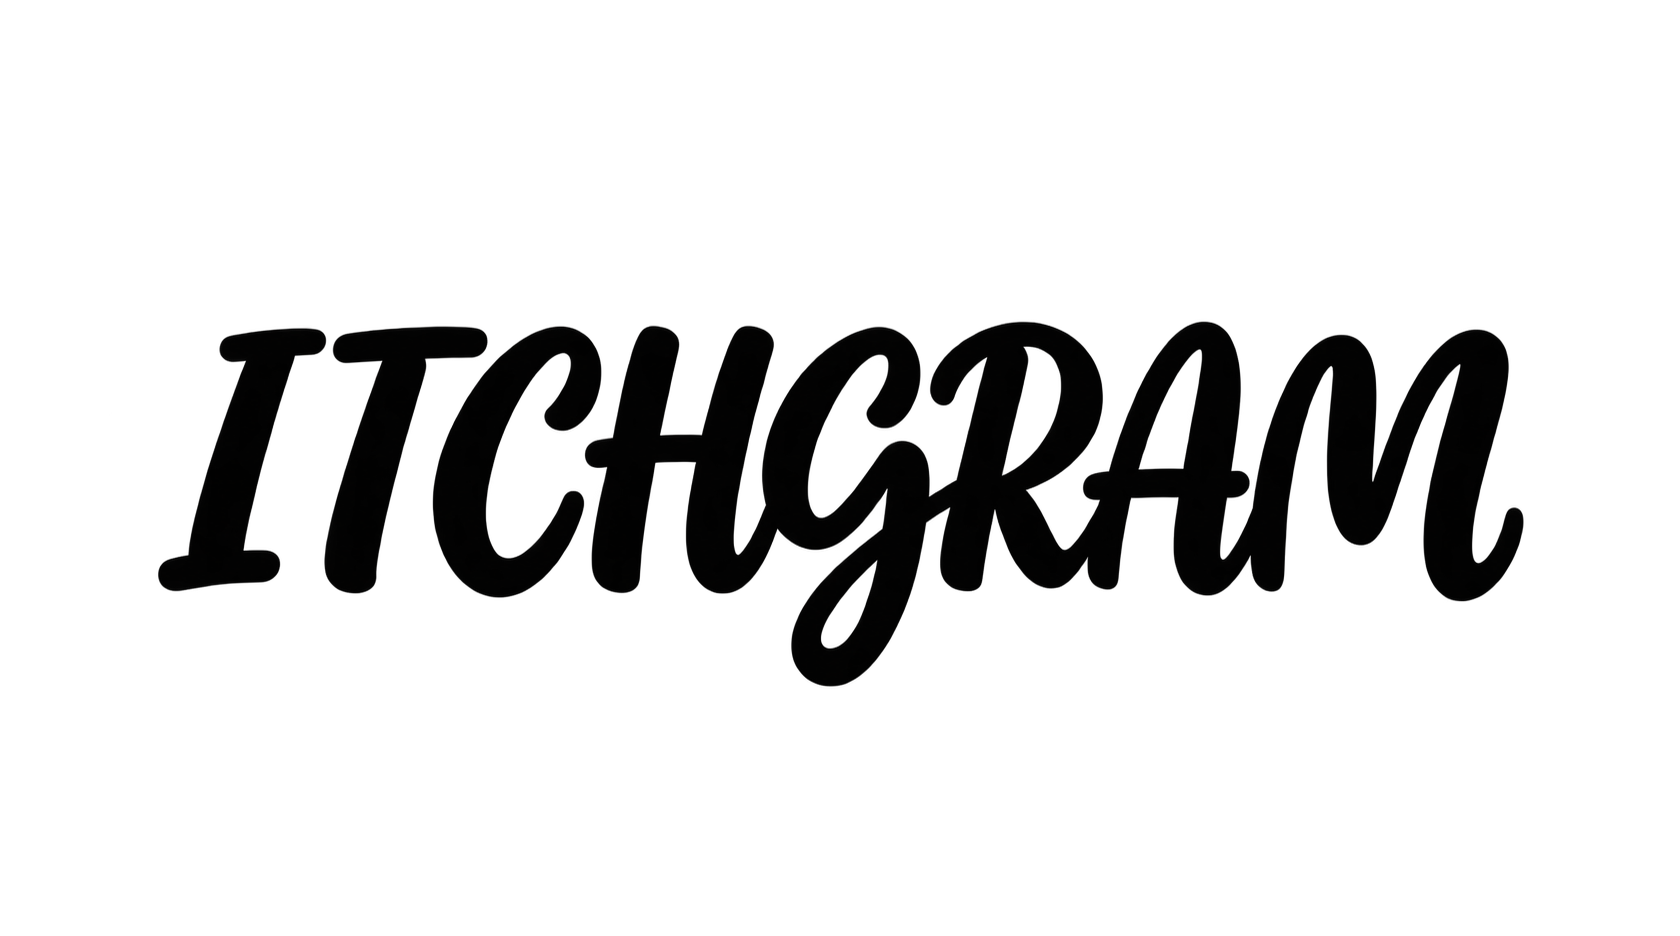
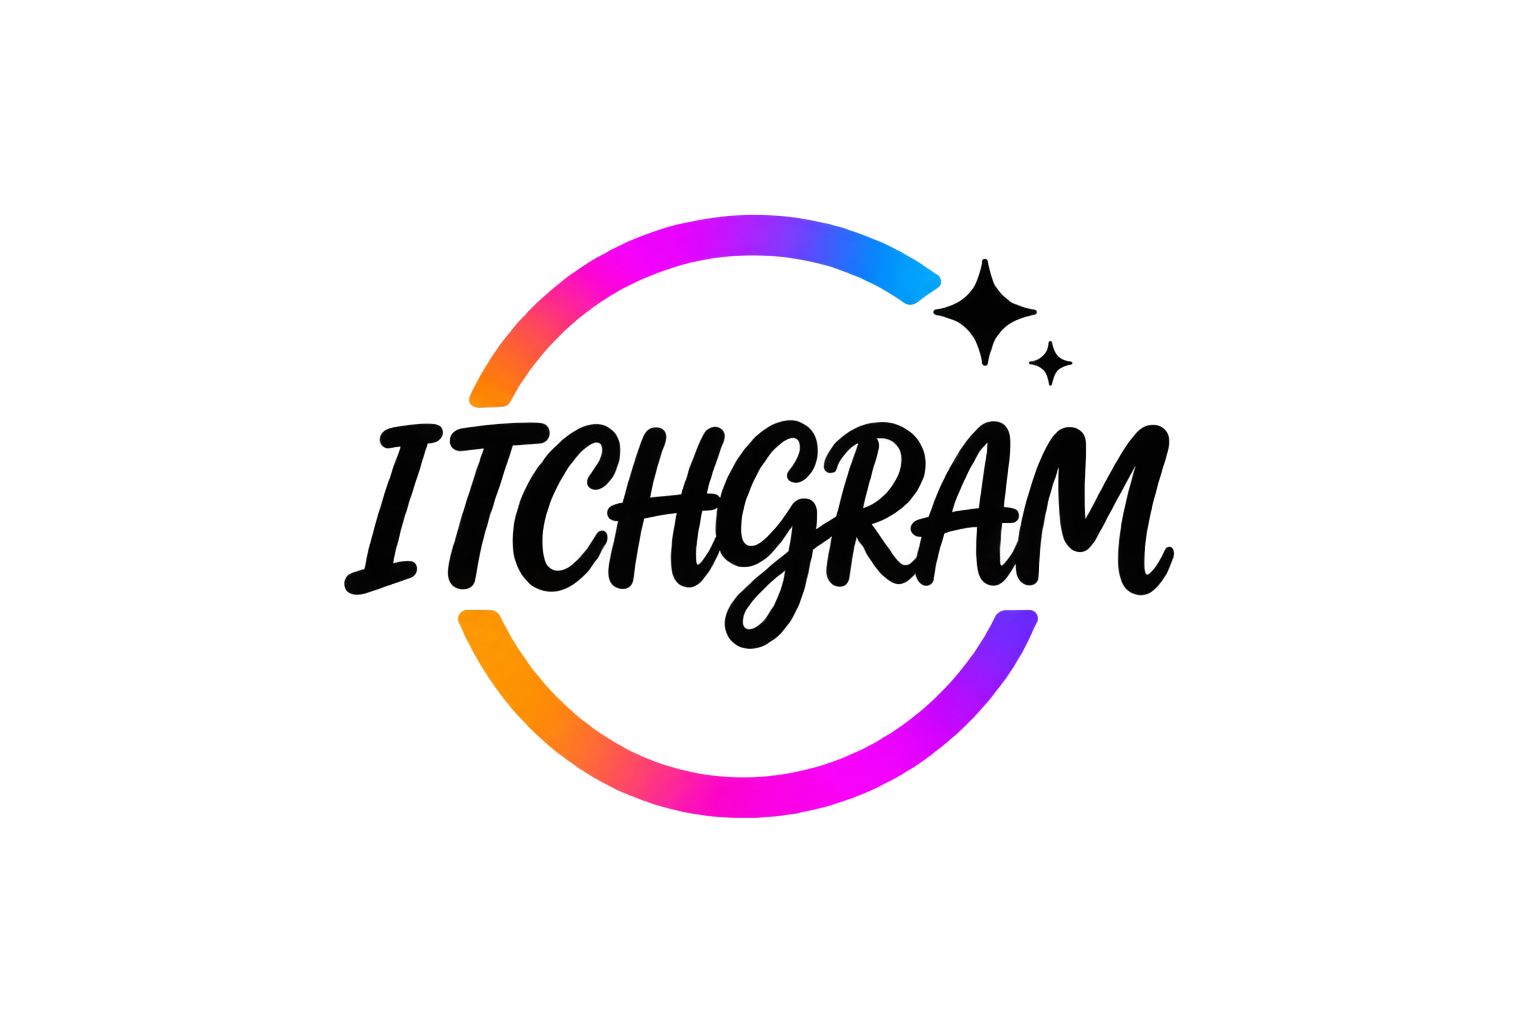
Fix DrawerImage

Changed region(s): [[0.0938, 0.1859, 0.9062, 0.8056]]

diff --git a/client/src/components/Drawer/index.jsx b/client/src/components/Drawer/index.jsx
@@ -7,6 +7,7 @@ import Button from "@mui/material/Button";
 import Typography from "@mui/material/Typography";
 import { useEffect, useState } from "react";
 import { useDispatch, useSelector } from "react-redux";
+import itchgramm from "../../assets/itchgramm.png";
 import itchgram from "../../assets/itchgram.png";
 import { styles } from "./styles";
 import homeLight from "../../assets/DrawerSvg/Light/Home.svg";
@@ -231,7 +232,7 @@ useEffect(() => {
   return (
     <Box sx={styles.container}>
       <Drawer sx={styles.mainDrawer} variant="permanent" anchor="left">
-        <Box component="img" src={itchgram} alt="itchgram" sx={styles.logo} />
+        <Box component="img" src={itchgramm} alt="itchgram" sx={styles.logo} />
 
         <List>
           <NavLink to="/home" onClick={closePanels} style={styles.item}>
